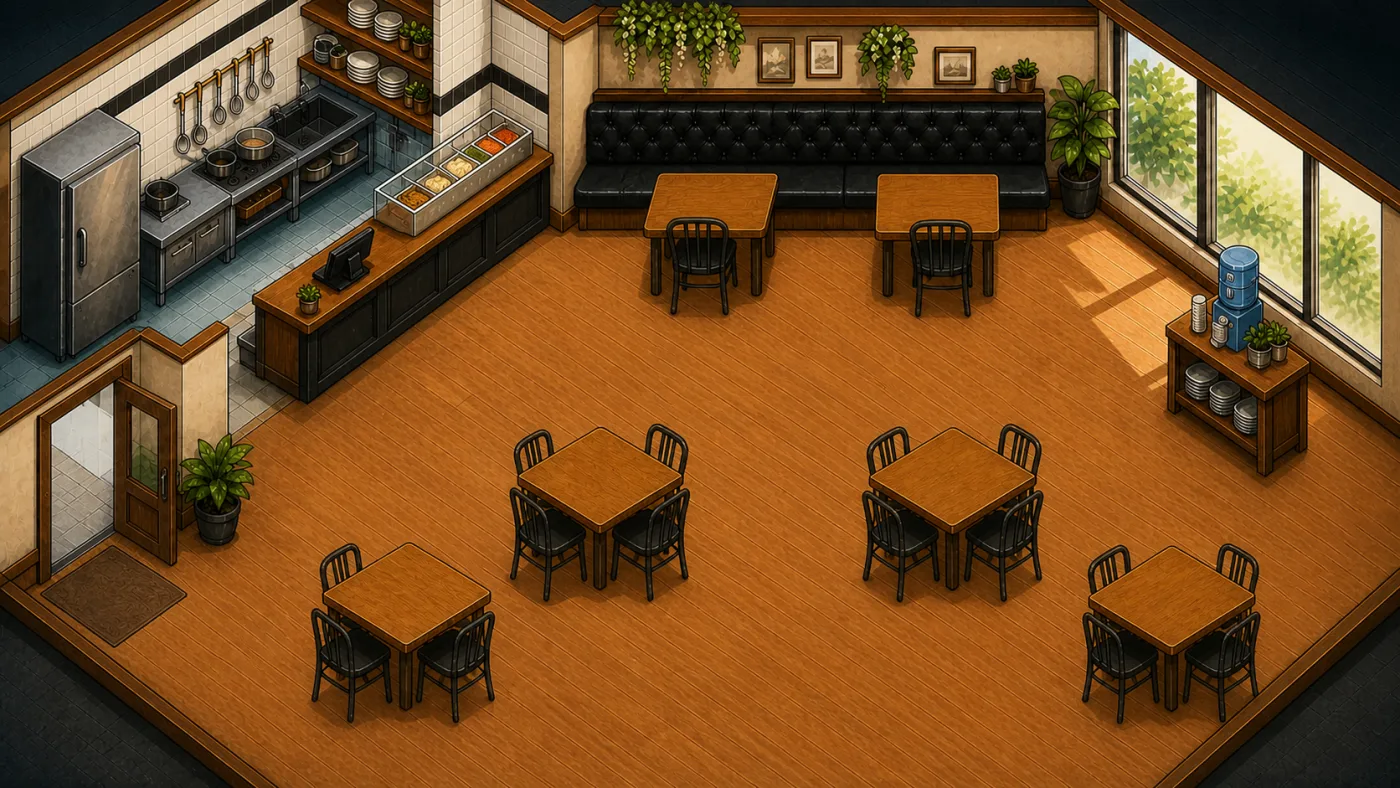
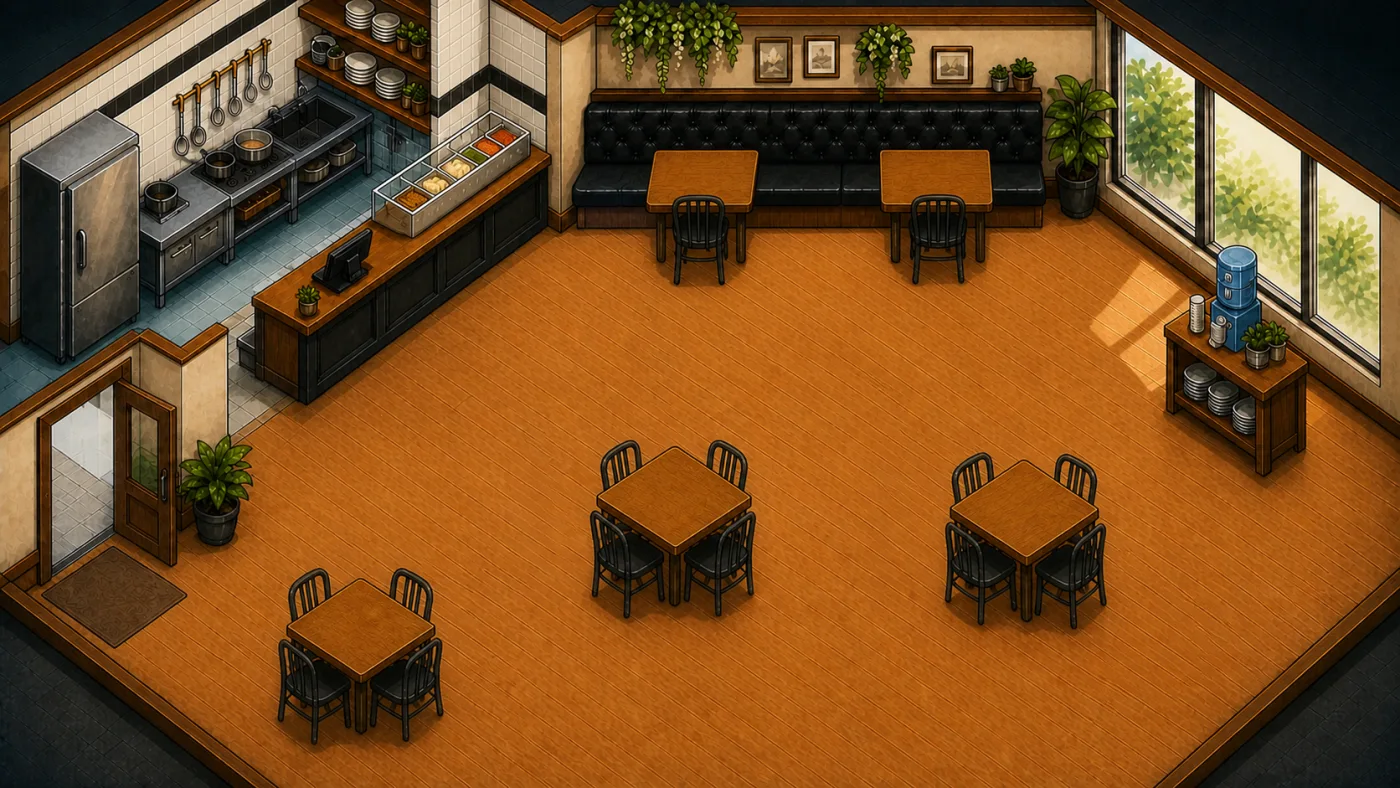
fix(遊戲): 修正人物步態與餐廳動線 — by CD

diff --git a/site/four-shifts/game.js b/site/four-shifts/game.js
@@ -1,14 +1,9 @@
-import { DONENESS, MENU, SHIFTS, STEPS, completeDelivery, freshState, normalizeSave, periodFor, scoreDoneness, scorePlate } from "./game-rules.mjs";
+import { DONENESS, GUEST_PATHS, MENU, SHIFTS, STEPS, completeDelivery, freshState, normalizeSave, periodFor, routeBetween, scoreDoneness, scorePlate } from "./game-rules.mjs";
 
 const $ = (selector) => document.querySelector(selector);
 const $$ = (selector) => [...document.querySelectorAll(selector)];
 const SAVE_KEY = "restaurant-rookie-v1";
 const SETTINGS_KEY = "restaurant-rookie-settings-v1";
-const POSITIONS = {
-  order: [46, 25], cook: [25, 36], plate: [37, 39],
-  1: [52, 34], 2: [71, 34], 3: [35, 72], 4: [57, 69], 5: [78, 73],
-};
-const HUB = [46, 51];
 const INTERRUPTIONS = [
   { zh: "等一下再教，先幫 4 號桌補水。", en: "I'll show you later. Refill water at table 4 first.", task: { type: "補水", table: 4 } },
   { zh: "先幫我收一下 5 號桌。", en: "Please clear table 5 first.", task: { type: "收桌", table: 5 } },
@@ -18,7 +13,6 @@ const INTERRUPTIONS = [
 const COPY = {
   zh: {
     title: "餐廳菜鳥", back: "返回作品", genre: "餐廳新人模擬遊戲", introTitle: "先看清楚。<br>再動起來。",
-    introBody: "點選餐廳裡的工作地點，讓菜鳥走去接單、料理、擺盤與送餐；同時留意客人、同事和突然插進來的店面工作。",
     start: "開始第一班", continue: "繼續上次進度", soundHint: "開始後會以低音量播放音樂與餐廳環境聲，可隨時關閉。",
     completed: "完成", ordersUnit: "單", reputation: "店內評價", music: "音樂", ambience: "環境聲",
     orderStation: "接單", cookStation: "料理", plateStation: "擺盤", coworkerRequest: "同事臨時交代",
@@ -47,12 +41,11 @@ const COPY = {
       plated: (ok, table) => `擺盤完成：${ok ? "內容正確" : "餐點有誤"}。送到 ${table} 號桌。`,
       delivered: (finished) => `送餐完成。${finished ? "新手班次結束，進入日常營運。" : "下一張單已經進來了。"}`,
       noTask: (table) => `${table} 號桌目前沒有待辦。`, taskDone: (table, task) => `${table} 號桌的「${task}」完成。`,
-      switched: (task) => `先去處理「${task}」。原本的餐點還在等。`, kept: "先把手上的餐點完成；臨時要求沒有消失，但順序比較清楚。",
+      switched: (task) => `先去處理「${task}」。原本的餐點還在等。`,
     },
   },
   en: {
     title: "Restaurant Rookie", back: "Back to projects", genre: "New-hire restaurant simulator", introTitle: "Look first.<br>Then get moving.",
-    introBody: "Choose a place in the restaurant and the rookie will walk there to take orders, cook, plate and serve—while guests, coworkers and sudden floor tasks keep the room alive.",
     start: "Start first shift", continue: "Continue saved game", soundHint: "Soft music and restaurant ambience begin after you start. Both can be turned off anytime.",
     completed: "Completed", ordersUnit: "orders", reputation: "Rating", music: "Music", ambience: "Ambience",
     orderStation: "Orders", cookStation: "Kitchen", plateStation: "Plating", coworkerRequest: "Coworker request",
@@ -81,7 +74,7 @@ const COPY = {
       plated: (ok, table) => `Plating finished: ${ok ? "correct" : "something is wrong"}. Serve table ${table}.`,
       delivered: (finished) => `Order served. ${finished ? "Training shifts complete; daily service begins." : "A new ticket just came in."}`,
       noTask: (table) => `Table ${table} has nothing pending.`, taskDone: (table, task) => `Table ${table}: ${task} complete.`,
-      switched: (task) => `Handle “${task}” first. The original order is still waiting.`, kept: "Finish the current dish first. The extra request remains, but the order is clearer.",
+      switched: (task) => `Handle “${task}” first. The original order is still waiting.`,
     },
   },
 };
@@ -92,7 +85,9 @@ let messageKey = "first";
 let messageArgs = [];
 let panelOpen = false;
 let moving = false;
-let actorPosition = [...HUB];
+let actorDestination = "hub";
+let guestsStarted = false;
+let guestTraffic = false;
 let audioContext;
 let musicGain;
 let ambienceGain;
@@ -250,22 +245,59 @@ async function walkTo(destination) {
   moving = true;
   closePanel();
   say("walk");
+  while (guestTraffic) await new Promise((resolve) => setTimeout(resolve, 50));
   const actor = $("[data-rookie]");
-  const target = POSITIONS[destination];
-  const route = [HUB, target];
-  actor.classList.remove("carrying", "wiping");
+  const route = routeBetween(actorDestination, destination);
+  let current = route[0];
+  actor.classList.remove("wiping");
+  actor.classList.toggle("carrying", Boolean(activeOrder("ready")));
   actor.classList.add("walking");
-  for (const point of route) {
-    actor.classList.toggle("facing-left", point[0] < actorPosition[0]);
+  for (const point of route.slice(1)) {
+    const distance = Math.hypot(point[0] - current[0], point[1] - current[1]);
+    const duration = Math.min(700, Math.max(220, distance * 30));
+    actor.classList.toggle("facing-left", point[0] < current[0]);
+    actor.style.transitionDuration = `${duration}ms`;
     actor.style.left = `${point[0]}%`;
     actor.style.top = `${point[1]}%`;
-    actorPosition = [...point];
-    if (!matchMedia("(prefers-reduced-motion: reduce)").matches) await new Promise((resolve) => setTimeout(resolve, 500));
+    if (!matchMedia("(prefers-reduced-motion: reduce)").matches) await new Promise((resolve) => setTimeout(resolve, duration));
+    current = point;
   }
   actor.classList.remove("walking");
+  actorDestination = destination;
   moving = false;
   render();
   return true;
+}
+
+async function startGuests() {
+  if (guestsStarted) return;
+  guestsStarted = true;
+  await new Promise((resolve) => setTimeout(resolve, 1600));
+  while (moving) await new Promise((resolve) => setTimeout(resolve, 50));
+  guestTraffic = true;
+  for (const kind of ["male", "female"]) {
+    const guest = $(`[data-guest="${kind}"]`);
+    const route = GUEST_PATHS[kind].walk;
+    let current = route[0];
+    guest.hidden = false;
+    guest.classList.add("walking");
+    guest.style.left = `${current[0]}%`;
+    guest.style.top = `${current[1]}%`;
+    for (const point of route.slice(1)) {
+      const duration = Math.min(650, Math.max(240, Math.hypot(point[0] - current[0], point[1] - current[1]) * 28));
+      guest.style.transitionDuration = `${duration}ms`;
+      guest.style.left = `${point[0]}%`;
+      guest.style.top = `${point[1]}%`;
+      if (!matchMedia("(prefers-reduced-motion: reduce)").matches) await new Promise((resolve) => setTimeout(resolve, duration));
+      current = point;
+    }
+    guest.classList.remove("walking");
+    guest.classList.add("seated");
+    guest.style.left = `${GUEST_PATHS[kind].seat[0]}%`;
+    guest.style.top = `${GUEST_PATHS[kind].seat[1]}%`;
+    await new Promise((resolve) => setTimeout(resolve, 250));
+  }
+  guestTraffic = false;
 }
 async function openDestination(destination) {
   if (!await walkTo(destination)) return;
@@ -345,7 +377,7 @@ function chooseInterruption(choice) {
     messageArgs = [taskName(event.task.type)];
   } else {
     state.reputation = Math.max(0, state.reputation - 1);
-    messageKey = "kept";
+    messageKey = "accepted";
     messageArgs = [];
   }
   state.interruption = null;
@@ -419,6 +451,7 @@ function start(nextState, key) {
   $("[data-play]").hidden = false;
   ensureAudio();
   update();
+  startGuests();
 }
 
 $("[data-start]").addEventListener("click", () => {

diff --git a/site/four-shifts/styles.css b/site/four-shifts/styles.css
@@ -47,28 +47,32 @@ button:focus-visible, a:focus-visible { outline: 3px solid #1978aa; outline-offs
 .destination { position: absolute; z-index: 12; display: grid; place-items: center; border: 2px solid #fff; color: #fff; background: var(--green); font-weight: 900; box-shadow: 0 2px 8px rgba(0,0,0,.6); }
 .destination:hover { transform: translateY(-2px); }
 .station-destination { min-width: 4.6rem; min-height: 2.3rem; border-radius: 999px; }
-.destination-order { left: 43%; top: 17%; }
-.destination-cook { left: 18%; top: 22%; }
-.destination-plate { left: 34%; top: 33%; }
+.destination-order { left: 37%; top: 33%; }
+.destination-cook { left: 18%; top: 29%; }
+.destination-plate { left: 27%; top: 43%; }
 .table-destination { width: clamp(2rem, 3.4vw, 2.8rem); aspect-ratio: 1; border-radius: 50%; }
 .table-destination[data-alert="true"] { background: var(--red); animation: pulse 1.1s infinite; }
-.table-1 { left: 53%; top: 27%; }
-.table-2 { left: 72%; top: 27%; }
-.table-3 { left: 34%; top: 66%; }
-.table-4 { left: 57%; top: 63%; }
-.table-5 { left: 79%; top: 67%; }
+.table-1 { left: 44%; top: 23%; }
+.table-2 { left: 61%; top: 23%; }
+.table-3 { left: 24%; top: 78%; }
+.table-4 { left: 48%; top: 64%; }
+.table-5 { left: 73%; top: 65%; }
 
 .rookie, .customer, .coworker { position: absolute; z-index: 8; pointer-events: none; background-repeat: no-repeat; filter: drop-shadow(0 3px 2px rgba(30,20,12,.35)); }
-.rookie { left: 46%; top: 51%; width: clamp(2.9rem, 6.4vw, 5.8rem); aspect-ratio: 1 / 2; background-image: url("./assets/rookie-sprites.webp"); background-size: 500% 100%; background-position: 0 0; transform: translate(-50%, -72%); transition: left .48s linear, top .48s linear; }
-.rookie.walking { animation: rookie-walk .28s steps(1) infinite; }
+.rookie { left: 39%; top: 48%; width: clamp(2.9rem, 6.4vw, 5.8rem); aspect-ratio: 1 / 2.35; background-image: url("./assets/rookie-sprites.webp"); background-size: 800% 100%; background-position: 0 0; transform: translate(-50%, -84%); transition-property: left, top; transition-timing-function: linear; }
+.rookie.walking { animation: rookie-walk .56s steps(1) infinite; }
 .rookie.facing-left { scale: -1 1; }
-.rookie.carrying { background-position: 75% 0; }
+.rookie.carrying { background-position: 71.429% 0; }
+.rookie.walking.carrying { animation-name: rookie-carry-walk; animation-duration: .42s; }
 .rookie.wiping { width: clamp(3.1rem, 6.7vw, 6rem); aspect-ratio: 2 / 3; background-image: url("./assets/rookie-wipe.webp"); background-size: contain; background-position: center; }
-.customer { width: clamp(2.5rem, 5.3vw, 4.8rem); aspect-ratio: 1 / 1.9; background-image: url("./assets/customer-sprites.webp"); background-size: 600% 100%; }
-.customer-a { left: 57%; top: 22%; background-position: 80% 0; }
-.customer-b { left: 76%; top: 24%; background-position: 100% 0; }
-.customer-walk { left: 8%; top: 78%; background-position: 0 0; animation: guest-arrival 14s linear infinite, guest-steps .3s steps(1) infinite; }
-.coworker { left: 29%; top: 26%; width: clamp(2.8rem, 5.6vw, 5rem); aspect-ratio: 1 / 1.65; background-image: url("./assets/coworker-sprites.webp"); background-size: 300% 100%; animation: coworker-patrol 9s ease-in-out infinite, coworker-steps .32s steps(1) infinite; }
+.customer { left: 8%; top: 65%; width: clamp(2.5rem, 5.3vw, 4.8rem); aspect-ratio: 1 / 2.4; background-image: url("./assets/customer-sprites.webp"); background-size: 900% 100%; transform: translate(-50%, -88%); transition-property: left, top; transition-timing-function: linear; }
+.guest-male { background-position: 0 0; }
+.guest-female { background-position: 62.5% 0; }
+.guest-male.walking { animation: male-guest-walk .56s steps(1) infinite; }
+.guest-female.walking { animation: female-guest-walk .56s steps(1) infinite; }
+.guest-male.seated { background-position: 50% 0; transform: translate(-50%, -91%); }
+.guest-female.seated { background-position: 100% 0; transform: translate(-50%, -83%); }
+.coworker { left: 13%; top: 24%; width: clamp(2.8rem, 5.6vw, 5rem); aspect-ratio: 1 / 1.65; background-image: url("./assets/coworker-sprites.webp"); background-size: 300% 100%; animation: coworker-patrol 7s ease-in-out infinite, coworker-steps .38s steps(1) infinite; }
 
 .status-rail { display: grid; align-content: start; gap: .65rem; padding: .65rem; color: #f8f1e3; background: var(--rail); }
 .status-rail section { border: 1px solid #15120f; padding: .7rem; color: var(--ink); background: var(--paper); }
@@ -121,11 +125,12 @@ button:focus-visible, a:focus-visible { outline: 3px solid #1978aa; outline-offs
 .game-note { min-height: 2rem; margin: .6rem 0 0; padding: .5rem .75rem; border-left: 4px solid var(--green); background: rgba(255,250,240,.76); }
 
 @keyframes pulse { 50% { transform: scale(1.12); } }
-@keyframes rookie-walk { 0%, 49% { background-position: 25% 0; } 50%, 100% { background-position: 50% 0; } }
-@keyframes guest-steps { 0%, 49% { background-position: 0 0; } 50%, 100% { background-position: 20% 0; } }
+@keyframes rookie-walk { 0%, 24% { background-position: 14.286% 0; } 25%, 49% { background-position: 28.571% 0; } 50%, 74% { background-position: 42.857% 0; } 75%, 100% { background-position: 57.143% 0; } }
+@keyframes rookie-carry-walk { 0%, 49% { background-position: 85.714% 0; } 50%, 100% { background-position: 100% 0; } }
+@keyframes male-guest-walk { 0%, 24% { background-position: 0 0; } 25%, 49% { background-position: 12.5% 0; } 50%, 74% { background-position: 25% 0; } 75%, 100% { background-position: 37.5% 0; } }
+@keyframes female-guest-walk { 0%, 32% { background-position: 62.5% 0; } 33%, 65% { background-position: 75% 0; } 66%, 100% { background-position: 87.5% 0; } }
 @keyframes coworker-steps { 0%, 49% { background-position: 50% 0; } 50%, 100% { background-position: 100% 0; } }
-@keyframes guest-arrival { 0% { left: 8%; top: 78%; opacity: 0; } 8% { opacity: 1; } 45% { left: 28%; top: 58%; opacity: 1; } 70% { left: 43%; top: 52%; opacity: 1; } 82%, 100% { left: 43%; top: 52%; opacity: 0; } }
-@keyframes coworker-patrol { 0%, 100% { left: 27%; top: 27%; } 50% { left: 42%; top: 32%; } }
+@keyframes coworker-patrol { 0%, 100% { left: 11%; top: 24%; } 50% { left: 17%; top: 24%; } }
 @media (prefers-reduced-motion: reduce) { *, *::before, *::after { animation: none !important; transition-duration: .001ms !important; } }
 
 @media (max-width: 900px) {
@@ -151,14 +156,9 @@ button:focus-visible, a:focus-visible { outline: 3px solid #1978aa; outline-offs
   .status-rail { display: block; }
   .status-rail section + section { margin-top: .55rem; }
   .station-destination { min-width: 3.6rem; min-height: 1.9rem; font-size: .75rem; }
-  .destination-order { left: 40%; top: 18%; }
-  .destination-cook { left: 11%; top: 22%; }
-  .destination-plate { left: 29%; top: 33%; }
-  .table-1 { left: 51%; }
-  .table-2 { left: 72%; }
-  .table-3 { left: 28%; }
-  .table-4 { left: 55%; }
-  .table-5 { left: 80%; }
+  .destination-order { left: 34%; top: 32%; }
+  .destination-cook { left: 9%; top: 27%; }
+  .destination-plate { left: 21%; top: 43%; }
   .interruption { grid-template-columns: 3.3rem 1fr; }
   .coworker-portrait { width: 3rem; }
   .interruption-actions { grid-column: 1 / -1; }

diff --git a/site/four-shifts/index.html b/site/four-shifts/index.html
@@ -31,7 +31,6 @@
       <div class="intro-copy">
         <p class="kicker" data-i18n="genre">餐廳新人模擬遊戲</p>
         <h2 data-i18n-html="introTitle">先看清楚。<br>再動起來。</h2>
-        <p data-i18n="introBody">點選餐廳裡的工作地點，讓菜鳥走去接單、料理、擺盤與送餐；同時留意客人、同事和突然插進來的店面工作。</p>
         <div class="intro-actions">
           <button class="primary" type="button" data-start data-i18n="start">開始第一班</button>
           <button class="text-button" type="button" data-continue hidden data-i18n="continue">繼續上次進度</button>
@@ -64,9 +63,8 @@
           <button class="destination table-destination table-4" type="button" data-table="4" aria-label="前往 4 號桌">4</button>
           <button class="destination table-destination table-5" type="button" data-table="5" aria-label="前往 5 號桌">5</button>
 
-          <div class="customer customer-a" aria-hidden="true"></div>
-          <div class="customer customer-b" aria-hidden="true"></div>
-          <div class="customer customer-walk" aria-hidden="true"></div>
+          <div class="customer guest-male" data-guest="male" hidden aria-hidden="true"></div>
+          <div class="customer guest-female" data-guest="female" hidden aria-hidden="true"></div>
           <div class="coworker" aria-hidden="true"></div>
           <div class="rookie" data-rookie role="img" aria-label="餐廳新人角色"></div>
 
